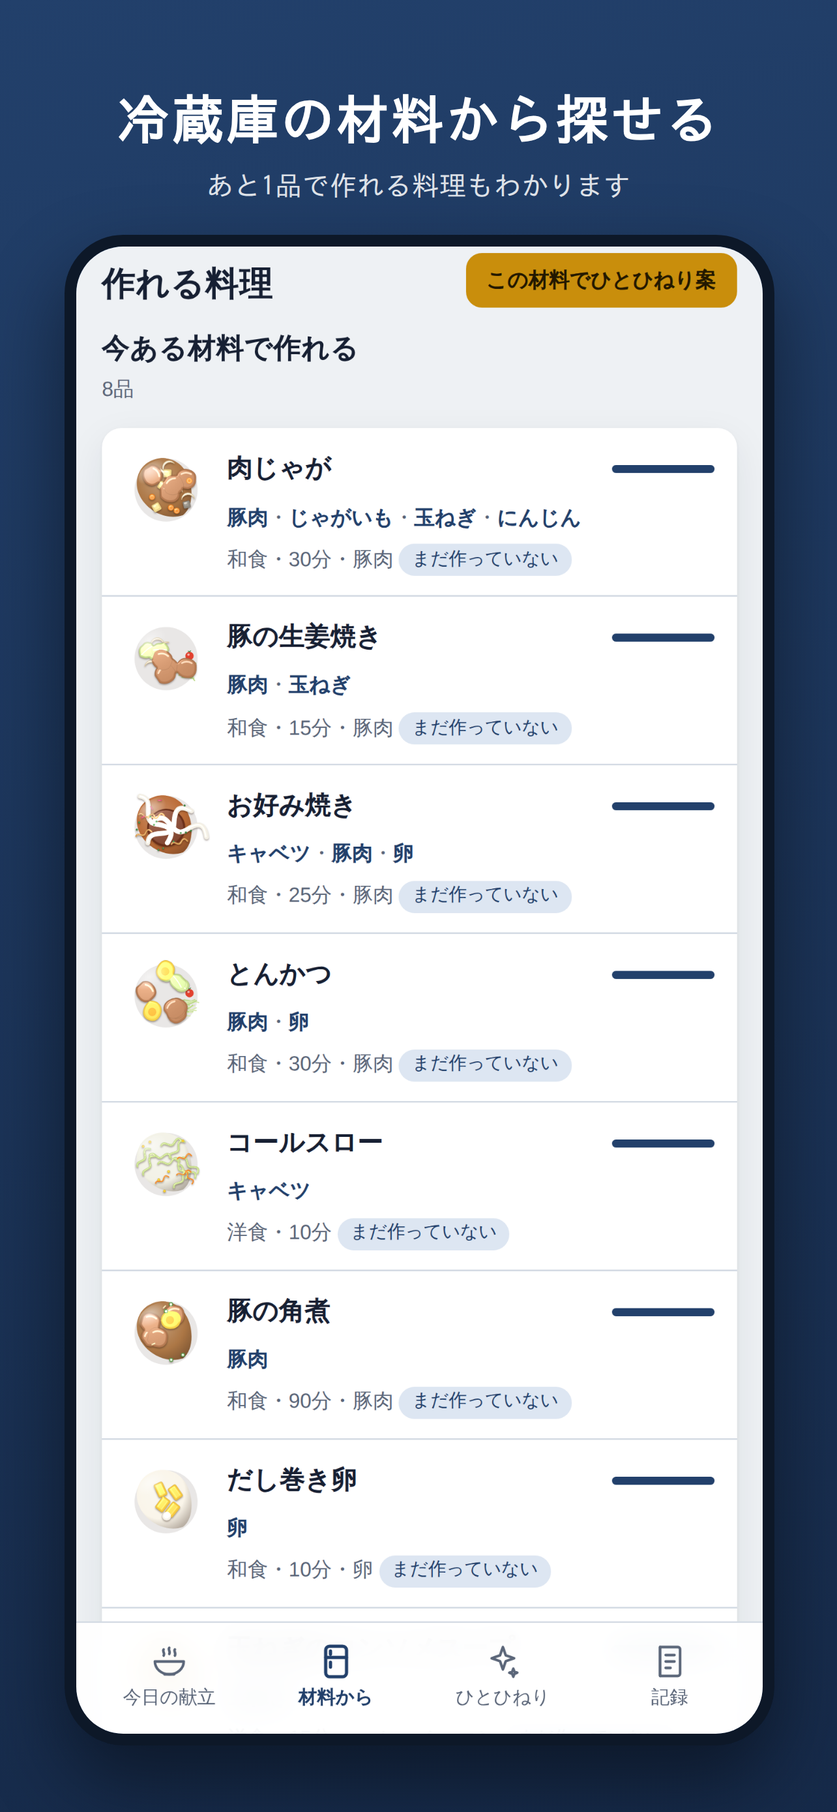
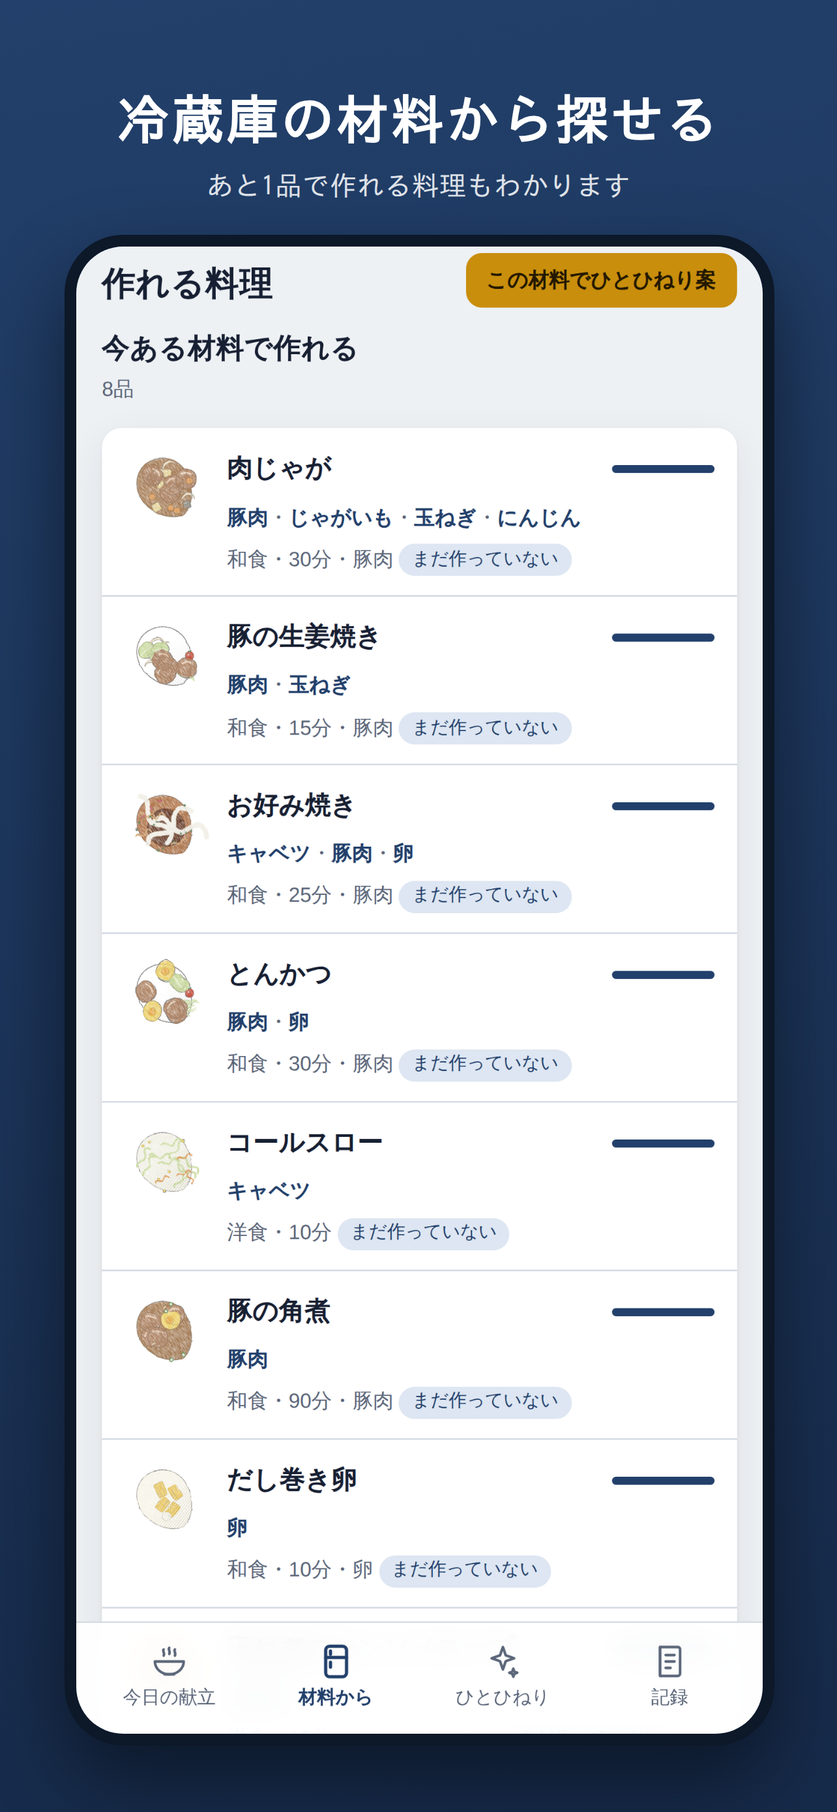
料理の絵を色鉛筆画に描き直し、参考写真も鉛筆スケッチに変換して表示
- イラスト: 色鉛筆のぬり（斜めの筆跡・ざらつき）、鉛筆の輪郭（手描きのゆれ、下の具材の線は上の具材に隠れる）、右下に斜線のかげ
- Wikipedia の参考写真: 端末の中で一度だけ鉛筆スケッチ（輪郭線＋淡い色＋色鉛筆の筆跡）に変換して保存し、以後はそれを表示。変換前・変換できない写真は手描きイラストを表示し、元の写真は出さない。出典表示に「写真をもとに鉛筆画風に加工」を明記
- 自分で撮った写真はそのまま表示
- お椀の写真が細かく並んで表示される不具合を修正
- App Store 用スクリーンショット・説明文・サポート・プライバシーポリシーを更新

Claude-Session: https://claude.ai/code/session_019mhum2xsvshQ35w91Npja8

diff --git a/gohancho/index.html b/gohancho/index.html
@@ -123,7 +123,7 @@ a{color:var(--accent)}
 .vessel{position:relative;aspect-ratio:1;border-radius:50%;border:0;padding:0;background:var(--porcelain);transition:transform .2s ease;max-width:100%}
 .vessel:hover{transform:translateY(-2px) scale(1.02)}
 .vessel .food{position:absolute;border-radius:47% 53% 50% 50%/55% 45% 55% 45%;background:radial-gradient(circle at 34% 28%,rgba(255,255,255,.4),transparent 42%),var(--food,#a8652b);background-size:cover;background-position:center}
-.vessel .food.photo{border-radius:50%;background-image:var(--img)}
+.vessel .food.photo{border-radius:50%;background-image:var(--img);background-size:cover;background-position:center;background-repeat:no-repeat}
 .v-plate{width:92%;box-shadow:inset 0 0 0 6px var(--porcelain),inset 0 0 0 8px var(--rim),inset 0 -8px 18px rgba(0,0,0,.12),0 8px 16px rgba(0,0,0,.45)}
 .v-plate .food{inset:20%}.v-plate .food.photo{inset:11%}
 .v-donburi{width:92%;background:repeating-conic-gradient(var(--rim) 0 5deg,var(--porcelain) 5deg 15deg);box-shadow:0 8px 16px rgba(0,0,0,.45)}
@@ -360,6 +360,8 @@ nav.tabs button[aria-selected="true"] svg{stroke-width:2}
 .shop .q{font-size:.8rem;color:var(--muted);text-align:right;font-variant-numeric:tabular-nums}
 .shop .for{grid-column:2 / 4;font-size:.72rem;color:var(--muted)}
 .shop .shop-row.done .nm,.shop .shop-row.done .q{text-decoration:line-through;color:var(--muted)}
+/* 鉛筆画 */
+.vessel .food.svg{background:#fbf8f1}
 @keyframes rise{from{transform:translateY(8px)}to{transform:none}}
 .pop{animation:rise .28s ease-out}
 .tray .vessel{animation:rise .35s ease-out backwards}
@@ -391,6 +393,36 @@ nav.tabs button[aria-selected="true"] svg{stroke-width:2}
 </nav>
 <div id="modal-root"></div>
 <div id="sheet-root"></div>
+<!-- 鉛筆画のための共通フィルター（料理のイラストと参考写真で使う） -->
+<svg width="0" height="0" style="position:absolute" aria-hidden="true" focusable="false">
+  <defs>
+    <!-- 色鉛筆のぬり: 輪郭を少しゆらし、紙に引っかかった筆圧のムラ（ざらつき）を出す -->
+    <filter id="pencil-fill" x="-10%" y="-10%" width="120%" height="120%" color-interpolation-filters="sRGB">
+      <feTurbulence type="fractalNoise" baseFrequency=".07" numOctaves="2" seed="3" result="wn"/>
+      <feDisplacementMap in="SourceGraphic" in2="wn" scale="2.4" xChannelSelector="R" yChannelSelector="G" result="wob"/>
+      <feColorMatrix in="wob" type="saturate" values=".8" result="sat"/>
+      <feComponentTransfer in="sat" result="col"><feFuncR type="linear" slope=".9" intercept=".09"/><feFuncG type="linear" slope=".9" intercept=".09"/><feFuncB type="linear" slope=".9" intercept=".08"/></feComponentTransfer>
+      <feTurbulence type="fractalNoise" baseFrequency="1.3 .16" numOctaves="2" seed="7" result="gr"/>
+      <feColorMatrix in="gr" type="matrix" values="0 0 0 0 0  0 0 0 0 0  0 0 0 0 0  -1.7 0 0 0 1.72" result="gm"/>
+      <feComposite in="col" in2="gm" operator="in"/>
+    </filter>
+    <!-- 鉛筆の線: 手でなぞったようなゆれと、かすれ -->
+    <filter id="pencil-line" x="-10%" y="-10%" width="120%" height="120%" color-interpolation-filters="sRGB">
+      <feTurbulence type="fractalNoise" baseFrequency=".09" numOctaves="2" seed="11" result="wn"/>
+      <feDisplacementMap in="SourceGraphic" in2="wn" scale="1.6" xChannelSelector="R" yChannelSelector="G" result="wob"/>
+      <feTurbulence type="fractalNoise" baseFrequency="1.2" numOctaves="1" seed="5" result="gr"/>
+      <feColorMatrix in="gr" type="matrix" values="0 0 0 0 0  0 0 0 0 0  0 0 0 0 0  -1.6 0 0 0 1.6" result="gm"/>
+      <feComposite in="wob" in2="gm" operator="in"/>
+    </filter>
+    <!-- かげの斜線（ハッチング）。各具材の右下ほど濃く入る -->
+    <pattern id="pencil-hatch" width="2.4" height="2.4" patternUnits="userSpaceOnUse" patternTransform="rotate(38)">
+      <line x1="0" y1="0" x2="0" y2="2.4" stroke="#3b3631" stroke-width=".5"/>
+    </pattern>
+    <linearGradient id="pencil-shade" x1="0" y1="0" x2="1" y2="1">
+      <stop offset=".45" stop-color="#000"/><stop offset="1" stop-color="#fff"/>
+    </linearGradient>
+  </defs>
+</svg>
 <div id="toast-root"></div>
 
 <script>
@@ -1185,14 +1217,14 @@ async function loadPhotos(){
 let MINE = {};
 function openDb(){
     return openDb.p || (openDb.p = new Promise((res, rej) => {
-        const q = indexedDB.open('gohancho', 1);
-        q.onupgradeneeded = () => q.result.createObjectStore('photos');
+        const q = indexedDB.open('gohancho', 2);
+        q.onupgradeneeded = () => { const db = q.result; ['photos', 'sketches'].forEach(n => { if (!db.objectStoreNames.contains(n)) db.createObjectStore(n); }); };
         q.onsuccess = () => res(q.result); q.onerror = () => rej(q.error);
     }));
 }
-async function idbDo(mode, fn){
+async function idbDo(mode, fn, store='photos'){
     const db = await openDb();
-    return new Promise((res, rej) => { const tx = db.transaction('photos', mode); const out = fn(tx.objectStore('photos')); tx.oncomplete = () => res(out && out.result); tx.onerror = () => rej(tx.error); });
+    return new Promise((res, rej) => { const tx = db.transaction(store, mode); const out = fn(tx.objectStore(store)); tx.oncomplete = () => res(out && out.result); tx.onerror = () => rej(tx.error); });
 }
 async function loadMine(){
     try{
@@ -1232,14 +1264,110 @@ async function removeMine(id){
 }
 function photoOf(r){
     if (!r) return null;
-    if (MINE[r.id]) return MINE[r.id];
-    return PHOTOS[r.isTwist ? r.base.id : r.id] || null;
+    if (MINE[r.id]) return MINE[r.id];               // 自分で撮った写真はそのまま
+    return sketchOf(PHOTOS[r.isTwist ? r.base.id : r.id]);
+}
+
+/* ---- 参考写真を色鉛筆のスケッチに描き直す ----
+   Wikipedia の写真は、端末の中で一度だけ鉛筆画に変換して保存し、以後はそれを表示する。
+   変換が終わるまで・変換できない写真は、手描き風のイラストを表示する（元の写真そのものは出さない）。 */
+const SKETCH = {};          // 元の写真URL → 鉛筆画のURL（null は変換できなかった）
+const sketchQueue = [];
+let sketchBusy = false;
+function sketchOf(ph){
+    if (!ph) return null;
+    const u = SKETCH[ph.src];
+    if (u) return Object.assign({}, ph, {src: u, sketch: true});
+    if (u === undefined) requestSketch(ph.src);
+    return null;
+}
+function requestSketch(src){
+    if (SKETCH[src] !== undefined || sketchQueue.includes(src)) return;
+    sketchQueue.push(src); pumpSketches();
+}
+async function pumpSketches(){
+    if (sketchBusy) return; sketchBusy = true;
+    while (sketchQueue.length){
+        const src = sketchQueue.shift();
+        try{
+            let blob = await idbDo('readonly', st => st.get(src), 'sketches').catch(() => null);
+            if (!blob){ blob = await pencilSketch(src); idbDo('readwrite', st => st.put(blob, src), 'sketches').catch(() => {}); }
+            SKETCH[src] = URL.createObjectURL(blob);
+        }catch(e){ SKETCH[src] = null; }
+        scheduleRender();
+    }
+    sketchBusy = false;
+}
+let renderTimer = null;
+function scheduleRender(){
+    clearTimeout(renderTimer);
+    renderTimer = setTimeout(() => {
+        const a = document.activeElement;
+        if (!(a && /^(INPUT|TEXTAREA|SELECT)$/.test(a.tagName))) render();
+        if (modalId) renderModal();
+    }, 250);
+}
+function pencilSketch(src){
+    return new Promise((resolve, reject) => {
+        const img = new Image();
+        img.crossOrigin = 'anonymous';
+        img.onerror = () => reject(new Error('load'));
+        img.onload = () => {
+            try{
+                const k = Math.min(1, 560 / Math.max(img.naturalWidth, img.naturalHeight));
+                const W = Math.max(1, Math.round(img.naturalWidth * k)), H = Math.max(1, Math.round(img.naturalHeight * k));
+                const cv = document.createElement('canvas'); cv.width = W; cv.height = H;
+                const ctx = cv.getContext('2d', {willReadFrequently: true});
+                ctx.drawImage(img, 0, 0, W, H);
+                const im = ctx.getImageData(0, 0, W, H), d = im.data, n = W * H;   // 他サイトの画像で許可がない場合はここで例外 → イラスト表示
+                const gray = new Float32Array(n), inv = new Float32Array(n);
+                for (let i = 0; i < n; i++){ const g = .3 * d[i*4] + .59 * d[i*4+1] + .11 * d[i*4+2]; gray[i] = g; inv[i] = 255 - g; }
+                const blur = boxBlur(inv, W, H, Math.max(3, Math.round(W / 70)));
+                let seed = 1234567;
+                const rnd = () => (seed = (seed * 1103515245 + 12345) & 0x7fffffff) / 0x7fffffff;
+                const streak = new Float32Array(W + H);   // 斜めの色鉛筆の筆跡
+                for (let t = 0; t < streak.length; t++) streak[t] = .9 + .1 * rnd();
+                for (let i = 0; i < n; i++){
+                    const x = i % W, y = (i / W) | 0;
+                    const dodge = Math.min(255, gray[i] * 255 / (256 - blur[i]));      // 覆い焼きで輪郭だけを線に
+                    const line = Math.pow(dodge / 255, 2.2);
+                    const r = d[i*4], g = d[i*4+1], b = d[i*4+2], l = gray[i];
+                    const tex = streak[(x + ((y * .7) | 0)) % streak.length] * (.94 + .06 * rnd());
+                    const col = c => ((l + (c - l) * .62) * .66 + 255 * .34);           // 色は淡く（色鉛筆）
+                    d[i*4]   = Math.min(255, col(r) * line * tex * .985);
+                    d[i*4+1] = Math.min(255, col(g) * line * tex * .972);
+                    d[i*4+2] = Math.min(255, col(b) * line * tex * .945);              // 紙の色（生成り）に寄せる
+                }
+                ctx.putImageData(im, 0, 0);
+                cv.toBlob(bl => bl ? resolve(bl) : reject(new Error('blob')), 'image/jpeg', .85);
+            }catch(e){ reject(e); }
+        };
+        img.src = src;
+    });
+}
+function boxBlur(src, W, H, r){
+    let a = src, b = new Float32Array(src.length);
+    for (let pass = 0; pass < 3; pass++){
+        for (let y = 0; y < H; y++){   // 横
+            let acc = 0; const o = y * W;
+            for (let x = -r; x <= r; x++) acc += a[o + Math.min(W - 1, Math.max(0, x))];
+            for (let x = 0; x < W; x++){ b[o + x] = acc / (2 * r + 1); acc += a[o + Math.min(W - 1, x + r + 1)] - a[o + Math.max(0, x - r)]; }
+        }
+        [a, b] = [b, a];
+        for (let x = 0; x < W; x++){   // 縦
+            let acc = 0;
+            for (let y = -r; y <= r; y++) acc += a[Math.min(H - 1, Math.max(0, y)) * W + x];
+            for (let y = 0; y < H; y++){ b[y * W + x] = acc / (2 * r + 1); acc += a[Math.min(H - 1, y + r + 1) * W + x] - a[Math.max(0, y - r) * W + x]; }
+        }
+        [a, b] = [b, a];
+    }
+    return a;
 }
 function videoSearchUrl(r){ return 'https://www.youtube.com/results?search_query=' + encodeURIComponent((r.isTwist ? r.base.name : r.name).replace(/（.*?）/g,'') + ' 作り方'); }
 function cssUrl(u){ return `url('${String(u).replace(/['"()\\\s]/g, c => encodeURIComponent(c))}')`; }
 function imageSearchUrl(r){ return 'https://www.google.com/search?tbm=isch&q=' + encodeURIComponent(r.name.replace(/（.*?）/g,'') + ' 料理'); }
 function photoNote(){
-    if (Object.keys(PHOTOS).filter(k => k !== 'rice' && k !== 'konomono').length) return '写真: Wikipedia / Wikimedia Commons。撮影者とライセンスは各料理の詳細に表示しています。';
+    if (Object.keys(PHOTOS).filter(k => k !== 'rice' && k !== 'konomono').length) return '料理の絵の一部は、Wikipedia / Wikimedia Commons の写真をもとに鉛筆画風に加工しています。撮影者とライセンスは各料理の詳細に表示しています。';
     return '';
 }
 
@@ -1257,7 +1385,7 @@ function vesselKind(r){
     return 'plate';
 }
 function vesselHtml(kind, r, still=false){
-    const ph = r ? photoOf(r) : (kind === 'chawan' ? PHOTOS.rice : kind === 'konomono' ? PHOTOS.konomono : null) || null;
+    const ph = r ? photoOf(r) : sketchOf(kind === 'chawan' ? PHOTOS.rice : kind === 'konomono' ? PHOTOS.konomono : null);
     const style = `--food:${foodColor(r)}` + (ph ? `;--img:${cssUrl(ph.src)}` : '');
     const food = ph ? '<span class="food photo"></span>' : (kind === 'chawan' || kind === 'konomono') ? '<span class="food"></span>' : `<span class="food svg">${dishSvg(r)}</span>`;
     const cls = `vessel v-${kind}${kind === 'donburi' && r && r.type === '麺' ? ' noodle' : ''}`;
@@ -1459,25 +1587,20 @@ function dishSvg(r, opts={}){
     const baseOp = art ? .95 : plated ? 0 : ({'煮':.95,'炒':.8,'和え':.6,'炊':.9,'汁':1}[r.method] || .7);
     const baseShape = under || (opts.plain ? '' : `<path opacity="${baseOp}" d="M50,${cy-R} C${cx+R*.9},${cy-R*.9} ${cx+R*1.05},${cy+R*.5} ${cx+R*.55},${cy+R*.85} C${cx-R*.2},${cy+R*1.1} ${cx-R*1.05},${cy+R*.4} ${cx-R*.95},${cy-R*.3} C${cx-R*.85},${cy-R*.95} ${cx-R*.2},${cy-R*1.05} 50,${cy-R} Z" fill="${base}"/>`);
     const tintShape = tint ? `<circle cx="50" cy="50" r="${R}" fill="${tint}"/>` : '';
-    // 仕上げ: ソースは中心が明るく縁が濃いグラデーション、具材には影と照り（光沢）を付けて立体的に
+    // 仕上げ: 鉛筆の輪郭の上から色鉛筆でぬり（下の具材の線は上の具材に隠れる）、右下に斜線のかげを入れる
     const p = 'dz' + (dishSvg.n = (dishSvg.n || 0) + 1);
-    const baseFill = under ? '' : baseShape.replace(`fill="${base}"`, `fill="url(#${p}g)"`);
-    const defs = `<defs>
-        <radialGradient id="${p}g" cx="42%" cy="38%" r="70%"><stop offset="0" stop-color="${mixHex(base,'#ffffff',.28)}"/><stop offset=".65" stop-color="${base}"/><stop offset="1" stop-color="${mixHex(base,'#2a160a',.32)}"/></radialGradient>
-        <radialGradient id="${p}h" cx="35%" cy="28%" r="45%"><stop offset="0" stop-color="#fff" stop-opacity=".55"/><stop offset="1" stop-color="#fff" stop-opacity="0"/></radialGradient>
-        <filter id="${p}f" x="-20%" y="-20%" width="140%" height="140%" color-interpolation-filters="sRGB">
-            <feGaussianBlur in="SourceAlpha" stdDeviation="1.1" result="bl"/>
-            <feSpecularLighting in="bl" surfaceScale="2.2" specularConstant=".42" specularExponent="18" lighting-color="#ffffff" result="sp"><fePointLight x="28" y="18" z="70"/></feSpecularLighting>
-            <feComposite in="sp" in2="SourceAlpha" operator="in" result="spc"/>
-            <feComposite in="SourceGraphic" in2="spc" operator="arithmetic" k2="1" k3=".7" result="lit"/>
-            <feOffset in="SourceAlpha" dy="1.1" result="off"/><feGaussianBlur in="off" stdDeviation=".9" result="sh"/>
-            <feFlood flood-color="#2a160a" flood-opacity=".38"/><feComposite in2="sh" operator="in" result="shc"/>
-            <feMerge><feMergeNode in="shc"/><feMergeNode in="lit"/></feMerge>
-        </filter>
-    </defs>`;
-    const rim = under ? '' : `<circle cx="50" cy="51" r="${R+1}" fill="#2a160a" opacity=".10"/>`;
-    const gloss = `<ellipse cx="40" cy="33" rx="22" ry="14" fill="url(#${p}h)" transform="rotate(-25 40 33)"/>`;
-    return `<svg viewBox="0 0 100 100" xmlns="http://www.w3.org/2000/svg" class="dish" aria-hidden="true">${defs}<g>${rim}${under || baseFill}${plated ? sideGarnish(rng) : ''}<g filter="url(#${p}f)" stroke="rgba(40,20,10,.14)" stroke-width=".4">${body}${over}</g>${tintShape}<g filter="url(#${p}f)">${garnish}</g>${gloss}</g></svg>`;
+    const side = plated ? sideGarnish(rng) : '';
+    const shapes = (under || baseShape) + side + body + over + garnish;
+    // 輪郭は「ぬりのある形」だけをなぞる（線だけの飾りや細部はなぞらない）
+    const asLines = t => t.replace(/<(path|line)\b[^>]*fill="none"[^>]*\/>/g, '').replace(/<line\b[^>]*\/>/g, '')
+        .replace(/fill="(?!none)[^"]*"/g, 'fill="none"').replace(/stroke="[^"]*"/g, '').replace(/stroke-width="[^"]*"/g, '').replace(/opacity="[^"]*"/g, '');
+    const asShade = t => t.replace(/fill="(?!none)[^"]*"/g, 'fill="url(#pencil-shade)"').replace(/stroke="[^"]*"/g, 'stroke="none"').replace(/opacity="[^"]*"/g, '');
+    return `<svg viewBox="0 0 100 100" xmlns="http://www.w3.org/2000/svg" class="dish pencil" aria-hidden="true">
+        <defs><mask id="${p}m" maskUnits="userSpaceOnUse" x="0" y="0" width="100" height="100">${asShade((under ? '' : baseShape) + body + over)}</mask></defs>
+        <g filter="url(#pencil-line)" fill="none" stroke="#3b3631" stroke-width=".9" stroke-linejoin="round" stroke-linecap="round" opacity=".75">${asLines(shapes)}</g>
+        <g transform="rotate(-35 50 50)" filter="url(#pencil-fill)"><g transform="rotate(35 50 50)">${shapes}${tintShape}</g></g>
+        <g mask="url(#${p}m)" opacity=".5"><rect width="100" height="100" fill="url(#pencil-hatch)"/></g>
+    </svg>`;
 }
 function sideGarnish(rng){
     let out = '';
@@ -2440,8 +2563,8 @@ function renderModal(){
     const hero = ph && ph.mine
         ? `<img src="${esc(ph.src)}" alt="${esc(r.name + 'の写真（わが家で作ったもの）')}"><div class="cap">わが家の一枚（${esc(jpDate(ph.d))}に登録）</div>`
         : ph
-        ? `<img src="${esc(ph.src)}" alt="${esc((r.isTwist ? r.base.name : r.name) + 'の写真')}">
-           <div class="cap">${r.isTwist ? `元の料理「${esc(r.base.name)}」の写真 ／ ` : '参考写真 ／ '}撮影: ${esc(ph.artist || '不明')}（${esc(ph.license || 'ライセンス不明')}） <a href="${esc(ph.page)}" target="_blank" rel="noopener">出典: Wikimedia Commons</a></div>`
+        ? `<img src="${esc(ph.src)}" alt="${esc((r.isTwist ? r.base.name : r.name) + 'の絵（写真をもとにした鉛筆画）')}">
+           <div class="cap">${r.isTwist ? `元の料理「${esc(r.base.name)}」の絵 ／ ` : ''}写真をもとに鉛筆画風に加工 ／ 撮影: ${esc(ph.artist || '不明')}（${esc(ph.license || 'ライセンス不明')}） <a href="${esc(ph.page)}" target="_blank" rel="noopener">出典: Wikimedia Commons</a></div>`
         : `<div class="noimg">${vesselHtml(vesselKind(r), r, true)}</div>`;
     const heroCls = ph ? 'hero' : 'hero illust';
     const genreName = {'和':'和食','洋':'洋食','中':'中華','韓':'韓国','エスニック':'エスニック'}[r.genre] || r.genre;

diff --git a/gohancho/support.html b/gohancho/support.html
@@ -26,7 +26,7 @@ summary{cursor:pointer;font-weight:700} p,li{font-size:.95rem} .muted{color:var(
 <details><summary>苦手な食材やアレルギーがある</summary><p>設定の「苦手な食材」で選んだ食材を使う料理は献立に出しません。アレルギーがある場合は、調味料や加工品の原材料も必ずご自身でお確かめください。</p></details>
 <details><summary>ごはん帖プラスを解約したい</summary><p>iPhone の「設定」→ 一番上の自分の名前 →「サブスクリプション」→「ごはん帖」から解約できます。最初の7日間の無料期間中に解約すれば、料金はかかりません。</p></details>
 <details><summary>機種変更したら購入はどうなりますか？</summary><p>同じ Apple ID でサインインし、設定の「購入を復元」を押してください。献立の記録は、設定の「データの引っ越し・バックアップ」で移せます。</p></details>
-<details><summary>料理の写真について</summary><p>参考写真は Wikipedia / Wikimedia Commons から読み込み、撮影者とライセンスを表示しています。写真がない料理はイラストで表示します。「作った料理を撮って登録」で、ご自身の写真にもできます（端末の中だけに保存されます）。</p></details>
+<details><summary>料理の絵について</summary><p>料理の絵は、色鉛筆で描いたような手描きのイラストです。一部の料理は Wikipedia / Wikimedia Commons の写真をもとに、端末の中で鉛筆画風に加工して表示し、撮影者とライセンスを表示しています。「作った料理を撮って登録」で、ご自身の写真にもできます（端末の中だけに保存されます）。</p></details>
 
 <h2>お問い合わせ</h2>
 <p>【連絡先メールアドレス】まで、端末の機種と iOS のバージョン、困っている内容をお送りください。</p>

diff --git a/gohancho/privacy.html b/gohancho/privacy.html
@@ -26,7 +26,7 @@ table{border-collapse:collapse;width:100%;font-size:.9rem} td,th{border-top:1px 
 <h2>2. 外部サービスとの通信</h2>
 <div class="wrap"><table>
 <tr><th>通信先</th><th>目的</th><th>送られる情報</th></tr>
-<tr><td>Wikipedia / Wikimedia Commons</td><td>料理の参考写真と、その撮影者・ライセンスの取得</td><td>料理名（記事名）と、通信に伴う IP アドレス等</td></tr>
+<tr><td>Wikipedia / Wikimedia Commons</td><td>料理の参考写真（端末の中で鉛筆画風に加工して表示）と、その撮影者・ライセンスの取得</td><td>料理名（記事名）と、通信に伴う IP アドレス等</td></tr>
 <tr><td>Google Fonts</td><td>画面の文字（フォント）の読み込み</td><td>通信に伴う IP アドレス等</td></tr>
 <tr><td>YouTube / Google 検索</td><td>「作り方の動画を探す」「完成写真を画像検索」を押したときのみ</td><td>料理名（検索語）と、通信に伴う IP アドレス等</td></tr>
 <tr><td>Apple（App Store）・RevenueCat</td><td>有料プランを導入した場合の購入と、購入状況の確認</td><td>購入に必要な情報（匿名の利用者ID・購入履歴）</td></tr>

diff --git a/ios-app/appstore/metadata.md b/ios-app/appstore/metadata.md
@@ -79,7 +79,7 @@
 利用規約: https://www.apple.com/legal/internet-services/itunes/dev/stdeula/
 プライバシーポリシー: https://akb69bka-tech.github.io/toresabi/gohancho/privacy.html
 
-料理の参考写真は Wikipedia / Wikimedia Commons から読み込み、撮影者とライセンスを表示しています。アレルギーがある場合は、調味料や加工品の原材料も必ずご自身でお確かめください。
+料理の絵は、色鉛筆で描いたような手描きのイラストです。一部の料理は Wikipedia / Wikimedia Commons の写真をもとに鉛筆画風に加工し、撮影者とライセンスを表示しています。アレルギーがある場合は、調味料や加工品の原材料も必ずご自身でお確かめください。
 ```
 
 ## キーワード（100文字まで、カンマ区切り・空白なし）
@@ -137,7 +137,7 @@ Main features:
 - Optional daily local notification reminder (Settings > 毎日のお知らせ).
 - Users can photograph their own dishes (stored on device only).
 
-No account or login is required. Reference photos are loaded from Wikimedia Commons with author and license attribution.
+No account or login is required. Dish images are colored-pencil style illustrations drawn in code; some are pencil-sketch renderings of Wikimedia Commons photos, shown with author and license attribution and a note that they were modified.
 
 In-app purchase: "ごはん帖プラス" auto-renewable subscription (monthly / yearly) with a 1-week free introductory offer. To view the paywall: tap the gear icon (top right) > "ごはん帖プラスを見る", or tap a locked day in "1週間の主菜". "購入を復元" (Restore Purchases) is on the same screen.
 ```
